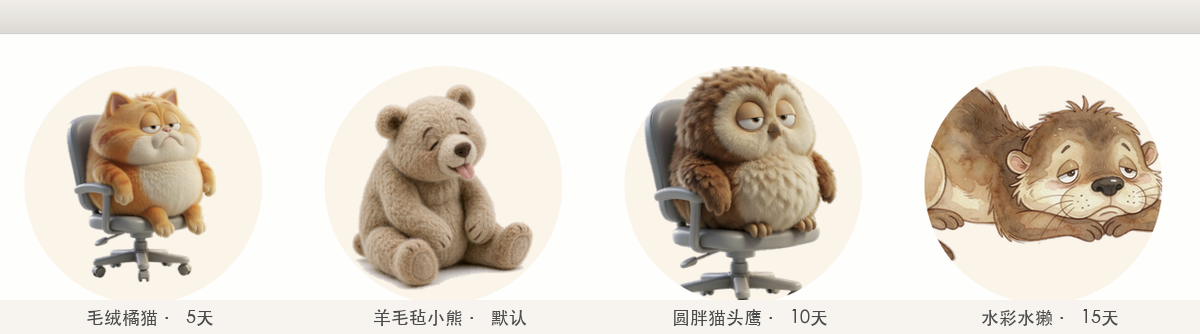
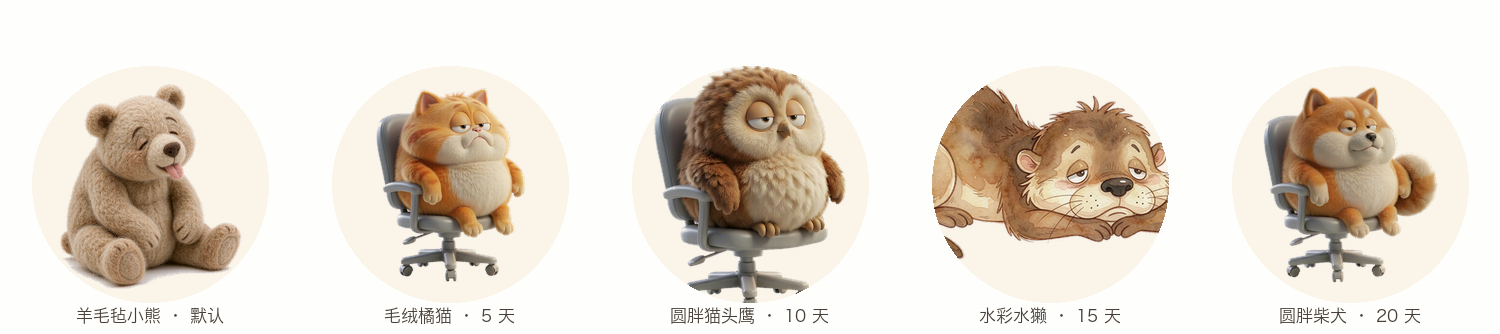
v0.12.0 第五只形象：圆胖柴犬
14 帧全部出齐（10 姿态 + 4 向视线），动作库复用哺乳动物那套，
不用为它单独写第二幕。解锁节奏顺带重排成 0 / 5 / 10 / 15 / 20 天，
柴犬押在最后一档。

定妆照改了两版：第一版没露卷尾、脸太像猫，第二版补了卷成圈的尾巴、
口吻拉长才定稿。出图过程踩的两个坑写进了 DEVELOPMENT 4 条硬规则和 D-25：

- 底图必须已经在目标姿态上。up/punch 第一轮全以坐姿为底图、
  要求「起身 + 抬手」两件事，三张全被拉回坐着，重出才过
- 视线帧只动眼睛不转头。3/4 侧脸构图下让 AI「转头 10 度」，
  它会把整张脸重绘一遍（改掉 3.3 万像素），方向感反而没出来

README 的同框图改成脚本生成（Tools/make_mascots_sheet.py），
按 app 的真实取景参数贴图 —— 之前是手工拼的，加一只就得重做，
而且每次圆底大小、格距、字号都不一样。

diff --git a/Sources/Habits.swift b/Sources/Habits.swift
@@ -9,12 +9,16 @@ struct UnlockRule {
 }
 
 enum Unlocks {
-    /// 默认送羊毛毡小熊；橘猫、猫头鹰、水獭靠坚持解锁。
+    /// 默认送羊毛毡小熊；其余四只靠坚持解锁。
+    ///
+    /// 间隔统一 5 天，柴犬摆在最后一档：它是四只里唯一「先有定妆照、
+    /// 再按定妆照批量出动作」的，制作成本最高，放在 20 天当压轴。
     static let styles: [UnlockRule] = [
         UnlockRule(style: "c", name: "羊毛毡小熊", days: 0),
         UnlockRule(style: "a", name: "毛绒橘猫", days: 5),
         UnlockRule(style: "d", name: "圆胖猫头鹰", days: 10),
-        UnlockRule(style: "b", name: "水彩水獭", days: 15)
+        UnlockRule(style: "b", name: "水彩水獭", days: 15),
+        UnlockRule(style: "e", name: "圆胖柴犬", days: 20)
     ]
 
     /// 连续 30 天进「老友模式」：文案不再是催促，改成熟人语气

diff --git a/Sources/MascotAnimator.swift b/Sources/MascotAnimator.swift
@@ -148,8 +148,14 @@ enum MascotRoutine {
     }
 
     /// 按形象取对应的动作库。缺素材时不会静音，只会退回坐姿（见 MascotCard.image(for:)）。
+    ///
+    /// E（柴犬）是哺乳动物，两条后腿站得起、前爪握得成拳，和前三只共用同一套动作。
+    /// 只有猫头鹰需要换语汇，理由见上面 Owl 的注释。
     static func variants(for style: String) -> [[(MascotPose, TimeInterval)]] {
-        style == "d" ? Owl.variants : restVariants
+        switch style {
+        case "d": return Owl.variants
+        default: return restVariants
+        }
     }
 }
 

diff --git a/Tools/make_mascots_sheet.py b/Tools/make_mascots_sheet.py
@@ -1,0 +1,102 @@
+#!/usr/bin/env python3
+"""生成 README 用的「形象全家福」横图 docs/images/mascots.png。
+
+为什么要有这个脚本：这张图以前是手工拼的，每加一只形象就得重做一次，
+而且换只手拼出来的圆底大小、格距、字号全不一样。现在把参数钉死在这里，
+新增形象只要往 STYLES 里加一行再跑一遍。
+
+布局参数是从四只版反解出来的（格距 300、圆直径 237、米色 251,244,233），
+保持前后两版视觉一致。
+
+形象一律按 **app 里的真实取景参数**贴：MascotCard 把 512 图塞进 112pt 框、
+外面套 126pt 圆（比例 0.889），再乘各形象自己的 `mascotZoom` / `mascotOffset`。
+这里用同一套数值换算成像素，图上看到的就是用户实际看到的 ——
+不这么做的话，展示图的形象/圆比例偏大，柴犬这种宽体型的脚轮会被圆切掉，
+而 app 里其实是完好的。
+
+用法：
+    /Library/Frameworks/Python.framework/Versions/3.14/bin/python3 Tools/make_mascots_sheet.py
+"""
+import os
+import sys
+
+from PIL import Image, ImageDraw, ImageFont, ImageChops
+
+sys.path.insert(0, os.path.dirname(os.path.abspath(__file__)))
+from paths import ROOT, mascot_png  # noqa: E402
+
+# ── 布局参数（改动前先跑一遍看看会不会挤） ──────────────────────────
+CELL = 300          # 每格宽度，也是圆心间距
+CIRCLE = 237        # 圆底直径
+CIRCLE_CY = 184     # 圆心纵向位置
+SHEET_H = 334       # 画布高
+LABEL_CY = 316      # 标签文字中心 y
+LABEL_SIZE = 17
+
+BODY = 112          # MascotCard 里头像内容的边长（pt）
+BODY_RATIO = BODY / 126.0   # 内容 / 圆 = 0.889
+
+BG = (254, 254, 253)
+BEIGE = (251, 244, 233)
+INK = (72, 64, 56)
+FONT = "/System/Library/Fonts/Hiragino Sans GB.ttc"
+
+# ── 形象与标签 ────────────────────────────────────────────────────
+# 顺序按解锁天数从早到晚。天数必须和 Sources/Habits.swift 的 `Unlocks.styles`
+# 保持一致，否则图上的「N 天」会和设置页对不上。
+# zoom / offset 跟 MascotCard.mascotZoom / mascotOffset 一一对应（单位 pt）。
+STYLES = [
+    ("c", "羊毛毡小熊", "默认", 1.00, (0, 0)),
+    ("a", "毛绒橘猫", "5 天", 1.00, (0, 0)),
+    ("d", "圆胖猫头鹰", "10 天", 1.30, (0, 2)),
+    ("b", "水彩水獭", "15 天", 1.45, (2, -8)),
+    ("e", "圆胖柴犬", "20 天", 1.00, (0, 0)),
+]
+
+
+def build() -> str:
+    n = len(STYLES)
+    width = CELL * n
+    canvas = Image.new("RGB", (width, SHEET_H), BG)
+
+    font = ImageFont.truetype(FONT, LABEL_SIZE, index=0)
+    draw = ImageDraw.Draw(canvas)
+
+    # 1pt 在展示图上等于多少像素，用来换算 mascotOffset
+    pt = CIRCLE / 126.0
+
+    for i, (style, name, unlock, zoom, offset) in enumerate(STYLES):
+        cx = CELL * i + CELL // 2
+        r = CIRCLE // 2
+        box = [cx - r, CIRCLE_CY - r, cx + r, CIRCLE_CY + r]
+
+        # 圆底 + 形象先合成到独立的 cell，再用圆的 alpha 一次性裁掉圆外部分。
+        # 直接往 canvas 上贴会漏出圆心以外的脑袋和椅轮。
+        cell = Image.new("RGBA", (width, SHEET_H), (0, 0, 0, 0))
+        ImageDraw.Draw(cell).ellipse(box, fill=BEIGE + (255,))
+
+        side = int(round(CIRCLE * BODY_RATIO * zoom))
+        src = mascot_png(style, "sit")
+        thumb = Image.open(src).convert("RGBA").resize((side, side), Image.LANCZOS)
+        ox, oy = int(round(offset[0] * pt)), int(round(offset[1] * pt))
+        cell.paste(thumb, (cx - side // 2 + ox, CIRCLE_CY - side // 2 + oy), thumb)
+
+        mask = Image.new("L", (width, SHEET_H), 0)
+        ImageDraw.Draw(mask).ellipse(box, fill=255)
+        cell.putalpha(ImageChops.multiply(cell.getchannel("A"), mask))
+
+        canvas.paste(cell, (0, 0), cell)
+
+        text = f"{name} · {unlock}"
+        draw.text((cx, LABEL_CY), text, font=font, fill=INK, anchor="mm")
+
+    dst = os.path.join(ROOT, "docs", "images", "mascots.png")
+    os.makedirs(os.path.dirname(dst), exist_ok=True)
+    canvas.save(dst, optimize=True)
+    return dst
+
+
+if __name__ == "__main__":
+    out = build()
+    im = Image.open(out)
+    print(f"wrote {out}  {im.width}×{im.height}  {os.path.getsize(out) // 1024} KB")

diff --git a/Tools/paths.py b/Tools/paths.py
@@ -7,7 +7,7 @@
     ├── frames/{style}/{pose}_raw.png     AI 原始出图，1024×1024，白底，不入库
     └── mascots/{style}/{pose}.png        抠图对齐后的成品，512×512，透明
 
-`style`：a 橘猫 / b 水獭 / c 小熊 / d 猫头鹰
+`style`：a 橘猫 / b 水獭 / c 小熊 / d 猫头鹰 / e 柴犬
 `pose` ：sit / blink / yawn1 / yawn2 / scratch / stand / up / punch1 / punch2
          / flap1 / flap2 / sitdown / gaze_left / gaze_right / gaze_up / gaze_down
 

diff --git a/docs/DECISIONS.md b/docs/DECISIONS.md
@@ -145,11 +145,11 @@ else { next = .center }
 
 **背景**：需求原话是「三个形象都要兼容相同动作」。
 
-**决策**：四个形象共用**三幕叙事结构**，但「卖力」那一拍按解剖学各表。
+**决策**：五个形象共用**三幕叙事结构**，但「卖力」那一拍按解剖学各表。
 
 | 形象 | 第二幕 |
 |---|---|
-| 橘猫 / 小熊 / 水獭 | 站起来伸懒腰 → 捶两拳 |
+| 橘猫 / 小熊 / 水獭 / 柴犬 | 站起来伸懒腰 → 捶两拳 |
 | 猫头鹰 | 站起来展翅伸懒腰 → 振翅两下 |
 
 **理由**：猫头鹰是**栖鸟**，翅膀长在体侧、没有能握的手。让它握拳打人既不合解剖，AI 也画不出来——试过两版，出来都是「伸翅膀打招呼」（`punch1` 像指路，`punch2` 像招手），而且每版都把体型画小一圈（包围盒高 626 vs 其他 804）。
@@ -542,3 +542,23 @@ mutating func step(now: Double, input: PresenceInput,
 - 15 组用例（51 项检查）要随判定变化一起维护。这是好事：改判定不动用例，说明改的是别的东西。
 
 > 教训：**能写成纯函数的判定，不要留在 `AppDelegate` 里。** 判据很简单——它要不要读时钟、要不要碰 UI？都不要，就抽出来。抽出来之后，测试成本从「重启盯半小时」降到「一条命令 3 秒」。
+
+---
+
+## D-25 · 视线帧只动眼睛，不转头——幅度不一致比幅度小更糟
+
+**背景**：给柴犬做四向视线时，前两张（`gaze_left` / `gaze_right`）与 `sit` 的像素差只有 1635 / 1828，而橘猫同项是 5337。我一度判断「幅度太小等于没做」，把提示词从「只动眼珠」改成「整颗头往右转 10~12 度」。
+
+结果更糟：那张图改掉了 33478 像素（橘猫才 5337），但**脸型被整颗重绘了一遍**，方向感反而没出来。原因很直接——柴犬的定妆照是「3/4 侧脸、鼻子朝画面左」的构图，在 AI 眼里这就是一张正面肖像，让它「往右转头」等于让它重画一张脸。
+
+**决策**：视线帧一律**只动眼球和眼皮，提示词里明确禁止转头**；接受它是「微表情级」的效果。
+
+**理由**：
+
+- **112pt 的容器里，微表情的性价比永远高于大动作。** `gaze_up` 只改了 3341 像素，但在卡片里一眼就能读出「在往上看」——因为瞳孔贴上眼皮、下方露出眼白，这个信号在缩略尺寸下反而比整体位移更清晰。
+- **幅度不一致比幅度小更糟。** 四向里如果有的转头、有的不转，循环起来就是抽搐。宁可四个方向一样轻。
+- **上下比左右容易做。** 眼眶的垂直空间足够，眼皮还能配合（往上看抬一点、往下看压一点）；左右被 3/4 侧脸和半睁眼压得很窄，硬做只能靠重绘。
+
+**代价**：左右两个方向的观感明显弱于上下。这是构图决定的，不是提示词能修的——想彻底解决得把定妆照重画成正脸，代价远大于收益。
+
+> 教训：**先量基线，再判断「够不够」**。我这次差点因为一个拍脑袋的绝对阈值（「差异 < 1 万像素算无效」）把已经合格的图重做一遍。基线的正确取法是看同项目里已经验收过的同类素材，不是看一个通用数字。

diff --git a/CHANGELOG.md b/CHANGELOG.md
@@ -6,6 +6,31 @@
 
 ---
 
+## v0.12.0 · 2026-10-27
+
+第五只形象：圆胖柴犬。这一版没有动任何判定或 UI 逻辑，纯粹是素材与文案。
+
+### 新增
+
+- **柴犬（`e`）**，14 帧：`sit` / `blink` / `yawn1` / `yawn2` / `scratch` / `stand` / `up` / `punch1` / `punch2` / `sitdown` + 四向视线。动作库直接复用哺乳动物那套（`act1 + act2 + act3`），在 `MascotRoutine.variants(for:)` 里走 `default` 分支
+- 注册进 `Unlocks.styles`，**连续坚持 20 天**解锁。解锁节奏顺带重排成 0 / 5 / 10 / 15 / 20 天，30 天仍是「老友模式」
+- `Tools/make_mascots_sheet.py`：五只同框的 README 示意图改为脚本生成。形象按 app 的真实取景参数（`mascotZoom` / `mascotOffset`）贴进圆里，图上的比例和用户实际看到的一致
+
+### 修复
+
+- README 里的同框图原本是手工拼的，加形象就得重做一遍，且每次圆底大小、格距、字号都不一样。现在参数钉死在脚本里，加形象只需往 `STYLES` 加一行
+
+### 变更
+
+- 定妆照改了两版才定：第一版没露卷尾、脸太像猫；第二版补了卷成圈的尾巴、口吻拉长
+- 文档补齐两条出图教训：**底图必须已经在目标姿态上**（`up`/`punch` 第一轮以坐姿为底图，三张全被拉回坐着）、**视线帧只动眼睛不转头**（3/4 侧脸构图下「转头」等于让 AI 重画一张脸）。详见 [D-25](docs/DECISIONS.md#d-25--视线帧只动眼睛不转头幅度不一致比幅度小更糟)
+
+### 已知
+
+- `sitdown` 那张没画出卷尾，只留了毛根。它只出现 0.30 秒、前后都是 `stand` / `sit`，在 112pt 里看不出，暂不重做
+
+---
+
 ## v0.11.0 · 2026-10-27
 
 「让计数可信」这一轮终于落地（原计划 v0.9.6，被 v0.10.0 的发布准备插了个队）。四件事都在回答同一个问题：**凭什么信这个数字**。

diff --git a/README.md b/README.md
@@ -164,7 +164,7 @@ open 歇会儿.app
 
 ## 形象与解锁
 
-![四个形象](docs/images/mascots.png)
+![五个形象](docs/images/mascots.png)
 
 | 形象 | 代号 | 解锁条件 |
 |---|---|---|
@@ -172,6 +172,7 @@ open 歇会儿.app
 | 毛绒橘猫 | `a` | 连续坚持 5 天 |
 | 圆胖猫头鹰 | `d` | 连续坚持 10 天 |
 | 水彩水獭 | `b` | 连续坚持 15 天 |
+| 圆胖柴犬 | `e` | 连续坚持 20 天 |
 | 老友模式（不是形象，是语气） | — | 连续坚持 30 天 |
 
 解锁的瞬间会自动换上，并在菜单栏播报一句。**不想等就直接用菜单里的「解锁全部形象（调试）」**。
@@ -180,9 +181,9 @@ open 歇会儿.app
 
 ### 每个形象的动作语汇不一样
 
-四个形象共用同一套三幕叙事（**困 → 起身卖力 → 瘫回去**），但「卖力」那一拍按解剖学各表：
+五个形象共用同一套三幕叙事（**困 → 起身卖力 → 瘫回去**），但「卖力」那一拍按解剖学各表：
 
-- 橘猫 / 小熊 / 水獭：站起来伸懒腰 → 捶两拳
+- 橘猫 / 小熊 / 水獭 / 柴犬：站起来伸懒腰 → 捶两拳
 - 猫头鹰：站起来展翅伸懒腰 → 振翅两下
 
 猫头鹰是栖鸟，翅膀长在体侧、没有能握的手。硬让它握拳打人既不合解剖，AI 也画不出来（试过两版，出来都是「伸翅膀打招呼」，而且每版都把体型画小一圈）。
